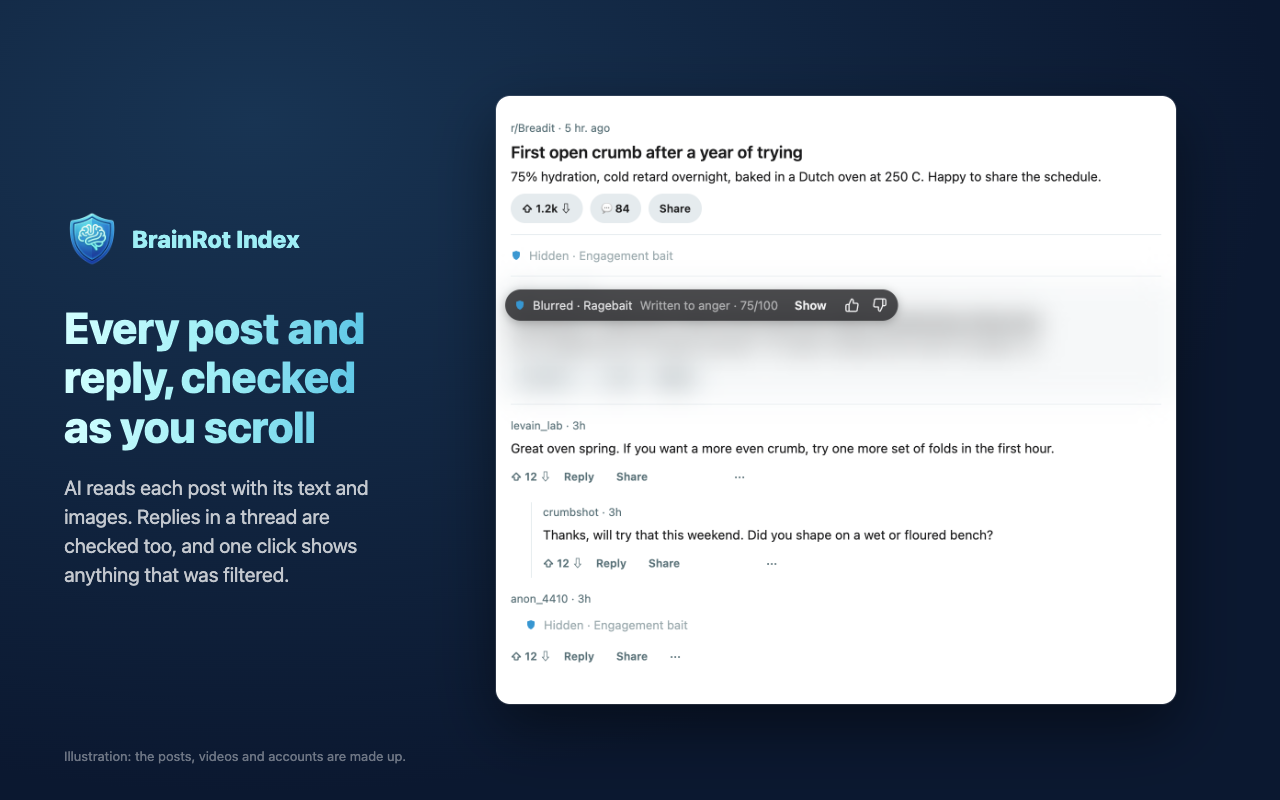
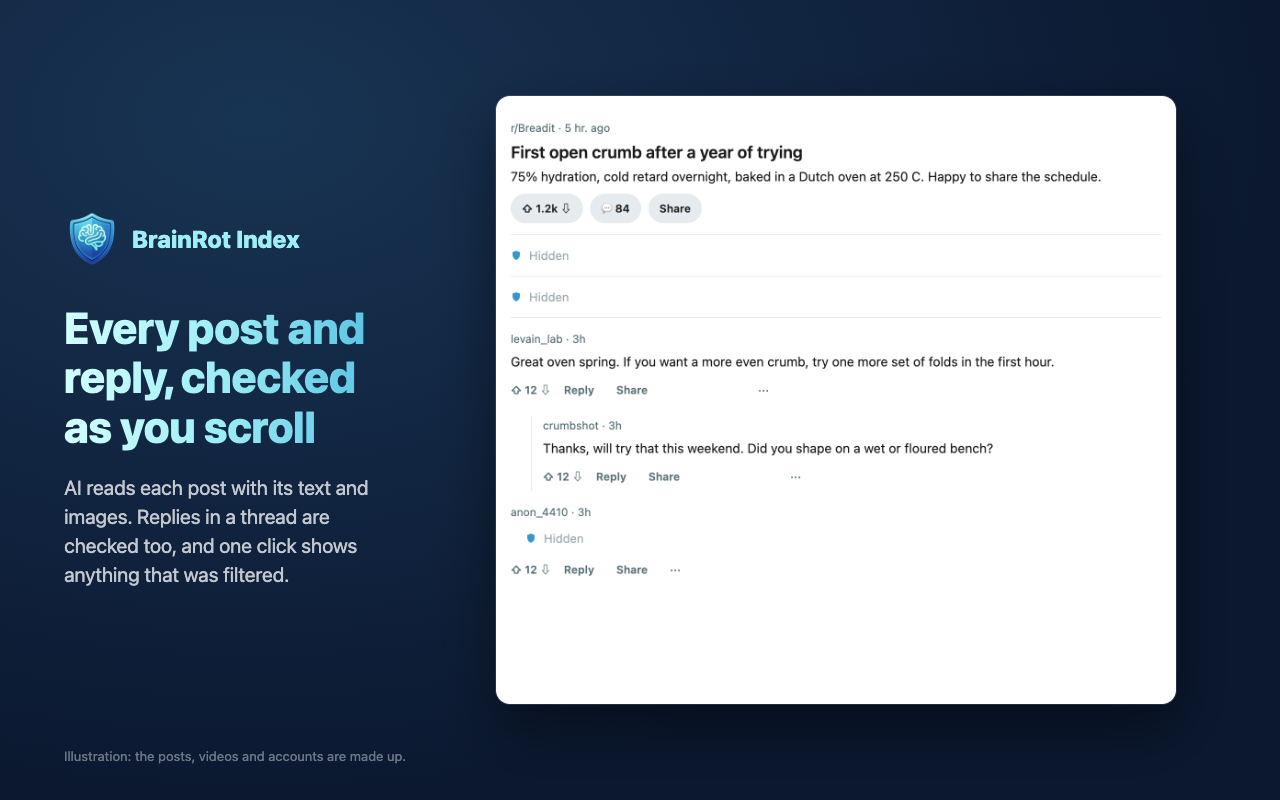
Redraw the Chrome Web Store screenshots for extension 0.1.1
The screenshots show the current extension: no blur, the feature ratings on
hover, the four default filters, and the label picker in the thumbs box. The
screenshot script names the default filters through the mock server, which
now lets a caller choose its two hiding filters. The store kit's captions,
consent wording, version and zip name match.

Changed region(s): [[0.375, 0.3125, 0.8125, 0.5], [0.4062, 0.5312, 0.8125, 0.7812], [0.4062, 0.7812, 0.5312, 0.8438]]

diff --git a/docs/webstore/README.md b/docs/webstore/README.md
@@ -1,7 +1,7 @@
 # Chrome Web Store submission kit
 
 Everything the Chrome Web Store Developer Dashboard asks for, checked against the code on
-2026-11-23 at extension version 0.1.0 (`extension/manifest.json`, `background.js`, `consent/`, `content/`,
+2026-11-23 at extension version 0.1.1 (`extension/manifest.json`, `background.js`, `consent/`, `content/`,
 `sites/`, `popup/`, `options/`, and the backend's `classification/` app) and against the live Privacy
 Policy at https://brainrotindex.com/privacy. Copy each block into the
 field of the same name. Brave installs extensions from the Chrome Web Store, so one listing covers
@@ -25,7 +25,7 @@ The dashboard's own wording wins where it differs from this file.
 | `../../extension/icons/icon128.png` | Store icon (also inside the zip) |
 
 The zip is not committed (`dist/` is ignored). Build it from a clean checkout of the commit being
-submitted: `node scripts/package-extension.mjs` writes `dist/brainrot-index-extension-0.1.0.zip`.
+submitted: `node scripts/package-extension.mjs` writes `dist/brainrot-index-extension-0.1.1.zip`.
 Upload that zip, never a zip of the `extension/` folder made by hand: the script takes the
 development addresses (localhost, 127.0.0.1, brainrot.jacob-waters.com) out of the manifest, so the
 published copy asks for access to https://brainrotindex.com only.
@@ -110,7 +110,7 @@ made-up posts, which each picture says in a footnote.
     An account is required. After the free trial BrainRot Index costs $5 a month, paid on the website.
 
     PRIVACY
-    Before it sends anything, the extension asks for your agreement. Once you agree, it sends the posts you see on supported sites (text, images, video, and who posted them) to the BrainRot Index service, which classifies them with AI models from our service providers. They are also used to improve the service and to detect fraud and abuse. We don't sell your data. Details: https://brainrotindex.com/privacy
+    Before it sends anything, the extension asks for your agreement. To decide which posts to hide, BrainRot Index sends the posts you see on supported sites to our server, where our service judges them with AI from our service providers. We don't sell your data. Details: https://brainrotindex.com/privacy
 
 **Category**: Lifestyle, Well-being. (Second choice: Social Networking.)
 
@@ -131,29 +131,24 @@ made-up posts, which each picture says in a footnote.
 | Small promo tile | 440 x 280 | no, but listings without it rank lower | `promo-tile-440x280.png` |
 | Marquee promo tile | 1400 x 560 | only for being featured | not made |
 
-What each screenshot is meant to show:
+What each screenshot shows, with its caption:
 
-1. "The algorithm that works for you": a dark feed with a hidden post's line (filter, ratings and
-   score on hover, Show, thumbs).
-2. "Every post and reply, checked as you scroll": a light thread with a hidden post and a hidden reply.
-3. "Videos too": a dark video grid with hidden videos.
-4. "You choose what goes": the dashboard's My plugins card with strictness sliders.
-5. "Tell it when it is wrong": the thumbs box with its label picker, and the toolbar popup.
-
-**All five committed pictures are out of date and must be redrawn before upload.** They were made
-before version 0.1.0 and show things the extension no longer does:
-
-- 1, 2, 3 and 5 show blurred posts ("Blurred · Ragebait"); there is no blur any more.
-- 1 and 2 show the old hover text (a rubric label such as "Asks for engagement"); it now shows the
-  feature ratings, such as "pull 8, emptiness 6.7".
-- 1's caption says posts are "blurred or folded into one line"; 3's caption says videos are judged by
-  "title, thumbnail and channel" (the video itself is now watched); 4's caption and picture show the
-  Blur or Hide choice.
-- 4 and 5 show Ragebait as a filter the user has by default; the defaults are now Brainrot,
-  Engagement bait, Low Effort and Rude or Toxic.
-- 5 shows the old details box (Filter, Severity), not the label picker ("Should be" / "Or blocked
-  as"), and a popup with a "Disconnect and stop sending posts" link and a "Blurred or hidden" count,
-  both since changed.
+1. "The algorithm that works for you": a dark feed with a hidden post's line hovered, showing the
+   filter, the ratings behind its score and the score ("Engagement bait · reply hook 8, emptiness
+   6.5 · 84/100"), Show, and thumbs. Caption: posts your filters flag are folded into one line; hover
+   it to see which filter caught the post and why.
+2. "Every post and reply, checked as you scroll": a light thread with a hidden post and a hidden
+   reply. Caption: AI reads each post with its text and images, replies are checked too, and one
+   click shows anything filtered.
+3. "Videos too": a dark video grid with hidden videos. Caption: suggested and searched videos are
+   judged too; AI watches the video itself, not only its title.
+4. "You choose what goes": the dashboard's My plugins card with the four default filters (Brainrot,
+   Engagement bait, Low Effort, Rude or Toxic) and their strictness sliders. Caption: turn each
+   filter on or off and set how strict it is; the plugin store has more filters.
+5. "Tell it when it is wrong": the thumbs box with its label picker ("Should be" / "Or blocked as",
+   Low Effort picked) and the toolbar popup. Caption: thumbs teach the filters, you can pick which
+   filter should have caught a post, and the toolbar button switches filtering off and shows what
+   was checked.
 
 The consent screen is not among them: the store takes five screenshots at most, and the five above
 show what the extension does. Reviewers see the consent screen when they install it (Test
@@ -238,8 +233,9 @@ Ordered from most to least likely to cause trouble.
    empty, low with the reviewer account from step 4. Reviewers reject items they cannot try.
 3. **Video sent to an AI provider.** Risk: low. Every post with a video, on any of the default
    filters, has its video watched by a Google Gemini model; for Reddit and X the server downloads
-   and keeps the opening seconds. This is covered by "video" in the consent screen, the listing and
-   the Privacy tab, and by "AI providers" in the Privacy Policy.
+   and keeps the opening seconds. This is covered by "the posts you see" and "AI from our service
+   providers" in the consent screen and the listing, by "video" in the Privacy tab and the Privacy
+   Policy, and by "AI providers" in the Privacy Policy.
 4. **Host access to three big sites.** Risk: low. The install prompt reads roughly "Read and change
    your data on brainrotindex.com, www.reddit.com, www.youtube.com and x.com". Named sites, not all
    sites, but any content-script access means a longer, partly manual review.
